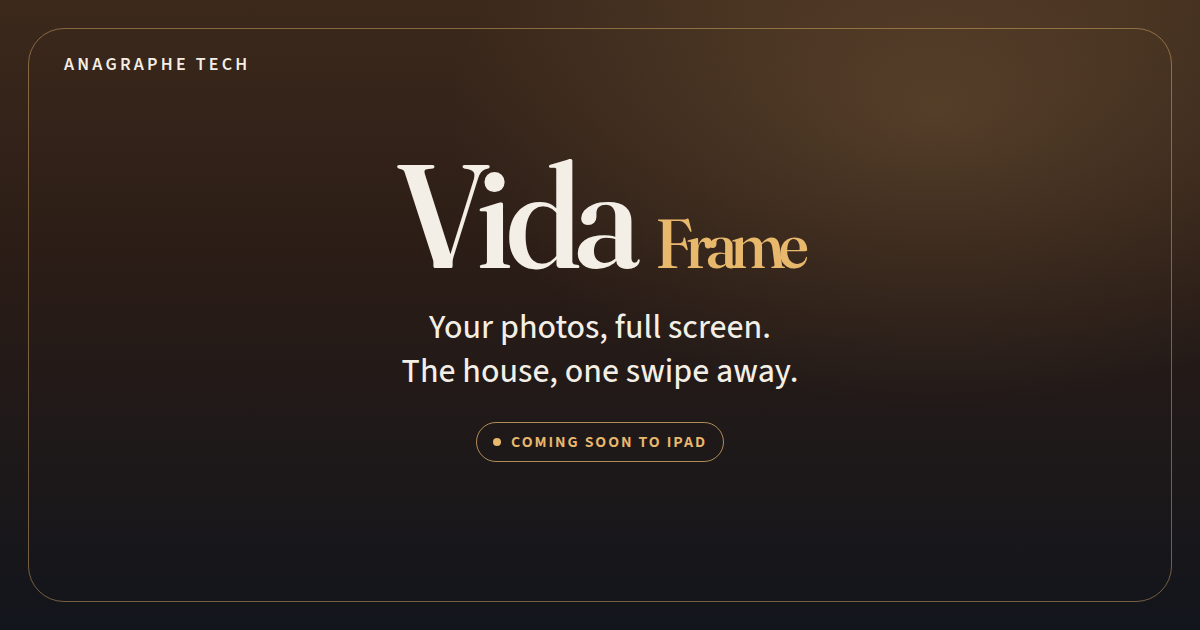
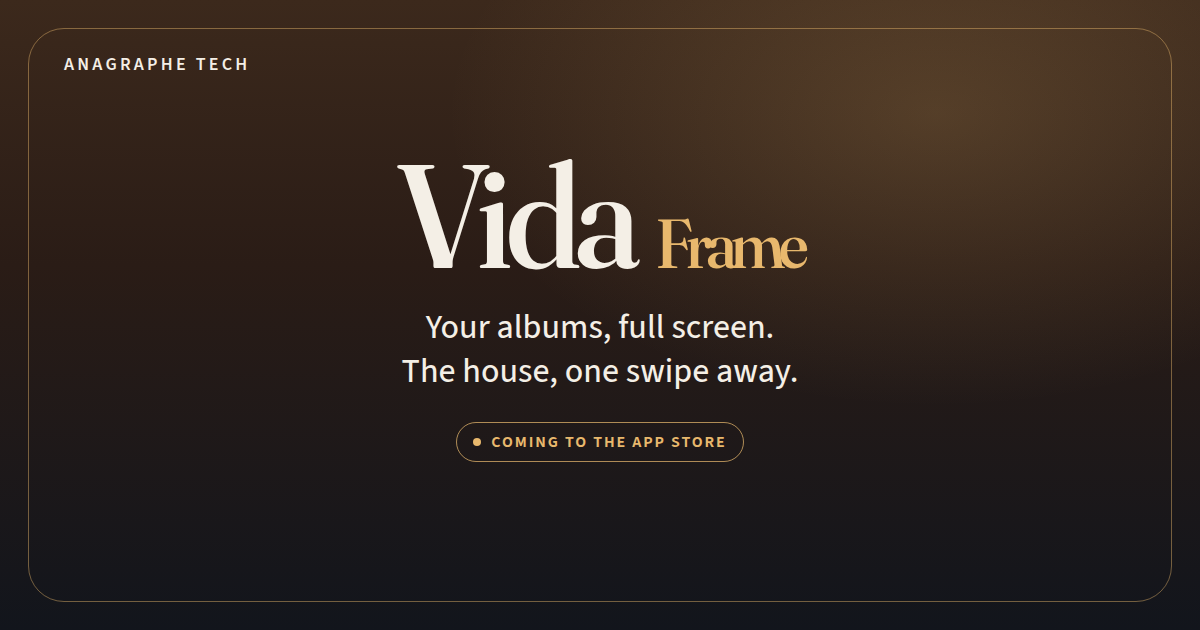
Align marketing copy with albums and the App Store. (#1)
The title, social tags, hero, and share image now lead with albums and a softer pre-launch line. VidaFrame Plus is mentioned once as an optional monthly upgrade, and the waitlist, privacy, and support pages stay in place.

Changed region(s): [[0.3392, 0.4825, 0.6475, 0.5429], [0.37, 0.6635, 0.6167, 0.7238]]

diff --git a/index.html b/index.html
@@ -3,10 +3,10 @@
   <head>
     <meta charset="UTF-8" />
     <meta name="viewport" content="width=device-width, initial-scale=1" />
-    <title>VidaFrame — Coming soon to iPad</title>
+    <title>VidaFrame — Your albums, full screen</title>
     <meta
       name="description"
-      content="VidaFrame turns an iPad into a full-screen photo frame for iCloud Photos. Apple Home is one swipe away. Coming soon from Anagraphe Tech."
+      content="Choose Favorites, your albums, or an iCloud Shared Album. The house is one swipe away. Coming to the App Store."
     />
     <meta name="author" content="Anagraphe Tech LLC" />
     <meta name="color-scheme" content="dark" />
@@ -15,10 +15,10 @@
     <link rel="icon" href="/favicon.svg" type="image/svg+xml" />
     <meta property="og:site_name" content="Anagraphe Tech" />
     <meta property="og:type" content="website" />
-    <meta property="og:title" content="VidaFrame — Coming soon to iPad" />
+    <meta property="og:title" content="VidaFrame — Your albums, full screen" />
     <meta
       property="og:description"
-      content="VidaFrame turns an iPad into a full-screen photo frame for iCloud Photos. Apple Home is one swipe away. Coming soon from Anagraphe Tech."
+      content="Choose Favorites, your albums, or an iCloud Shared Album. The house is one swipe away. Coming to the App Store."
     />
     <meta property="og:url" content="https://anagraphetech.com/" />
     <meta property="og:image" content="https://anagraphetech.com/og.png" />
@@ -26,13 +26,13 @@
     <meta property="og:image:height" content="630" />
     <meta
       property="og:image:alt"
-      content="VidaFrame. Your photos, full screen. The house, one swipe away."
+      content="VidaFrame. Your albums, full screen. The house, one swipe away. Coming to the App Store."
     />
     <meta name="twitter:card" content="summary_large_image" />
-    <meta name="twitter:title" content="VidaFrame — Coming soon to iPad" />
+    <meta name="twitter:title" content="VidaFrame — Your albums, full screen" />
     <meta
       name="twitter:description"
-      content="VidaFrame turns an iPad into a full-screen photo frame for iCloud Photos. Apple Home is one swipe away. Coming soon from Anagraphe Tech."
+      content="Choose Favorites, your albums, or an iCloud Shared Album. The house is one swipe away. Coming to the App Store."
     />
     <meta name="twitter:image" content="https://anagraphetech.com/og.png" />
     <link rel="stylesheet" href="/src/styles.css" />
@@ -49,8 +49,8 @@
           <h1 id="wordmark" class="wordmark">
             <span class="wordmark-vida">Vida</span><span class="wordmark-frame">Frame</span>
           </h1>
-          <p class="tagline"><span>Your photos, full screen.</span><span>The house, one swipe away.</span></p>
-          <p class="badge">Coming soon to iPad</p>
+          <p class="tagline"><span>Your albums, full screen.</span><span>The house, one swipe away.</span></p>
+          <p class="badge">Coming to the App Store</p>
           <p class="lede">
             Choose Favorites, your albums, or an iCloud Shared Album. VidaFrame plays
             stills from the library iCloud Photos syncs to this iPad.
@@ -98,7 +98,7 @@
       <section class="band features" aria-labelledby="features-title">
         <div class="section-intro">
           <h2 id="features-title">What it does</h2>
-          <p>A full-screen frame for iCloud Photos, with the house one swipe up.</p>
+          <p>Favorites, albums, and Shared Albums, full screen, with the house one swipe up.</p>
         </div>
         <ul class="feature-list">
           <li class="feature">
@@ -142,6 +142,10 @@
             </p>
           </li>
         </ul>
+        <p class="plus-note">
+          VidaFrame is free. VidaFrame Plus is an optional upgrade at $0.49 a month.
+          It removes the notice and adds weather.
+        </p>
       </section>
 
       <section class="band showcase" aria-labelledby="showcase-title">
@@ -220,7 +224,7 @@
         <div class="signup-panel">
           <div class="signup-copy">
             <h2 id="signup-title">Be first to know</h2>
-            <p>Join the waitlist. We'll write when VidaFrame is ready for iPad.</p>
+            <p>Join the waitlist. We'll write when VidaFrame is on the App Store.</p>
           </div>
           <form
             class="waitlist"

diff --git a/scripts/og.html b/scripts/og.html
@@ -107,8 +107,8 @@
     <p class="company">Anagraphe Tech</p>
     <div class="inner">
       <h1><span>Vida</span><span class="frame-word">Frame</span></h1>
-      <p class="tagline">Your photos, full screen.<br />The house, one swipe away.</p>
-      <p class="badge">Coming soon to iPad</p>
+      <p class="tagline">Your albums, full screen.<br />The house, one swipe away.</p>
+      <p class="badge">Coming to the App Store</p>
     </div>
   </body>
 </html>

diff --git a/src/styles.css b/src/styles.css
@@ -401,6 +401,15 @@ input {
   color: var(--cream-soft);
 }
 
+.plus-note {
+  width: min(var(--shell), 100%);
+  max-width: 40rem;
+  margin-top: 1.25rem;
+  margin-inline: auto;
+  color: var(--cream-soft);
+  text-wrap: pretty;
+}
+
 .showcase {
   display: grid;
   grid-template-columns: 1fr;
